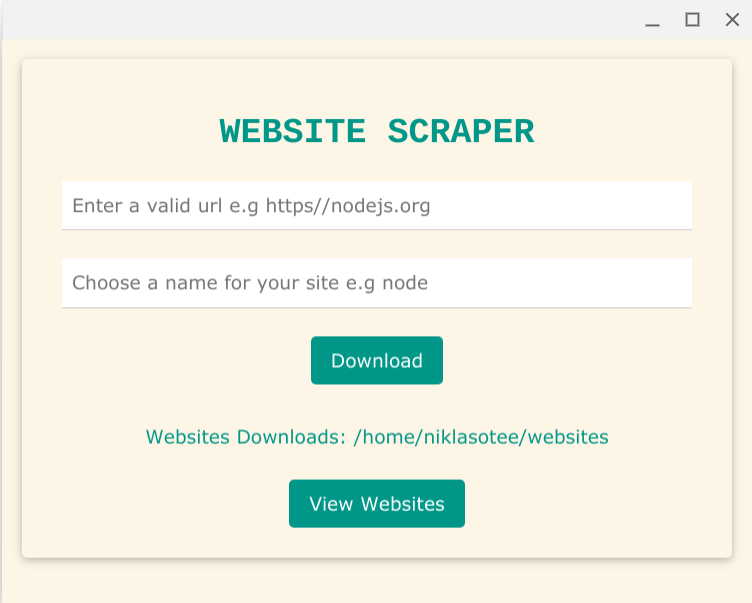
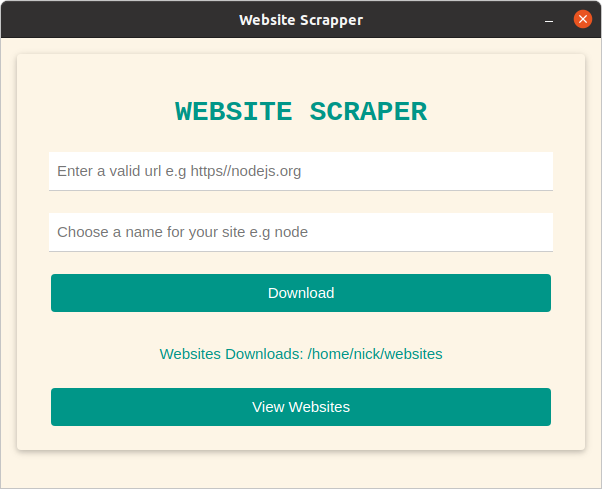
update css and change screenshot

diff --git a/src/app/css/index.css b/src/app/css/index.css
@@ -16,6 +16,10 @@ h1 {
   animation: spin 2s linear infinite;
 }
 
+.btn{
+  width: 500px;
+}
+
 @-webkit-keyframes spin {
   0% {
     -webkit-transform: rotate(0deg);
